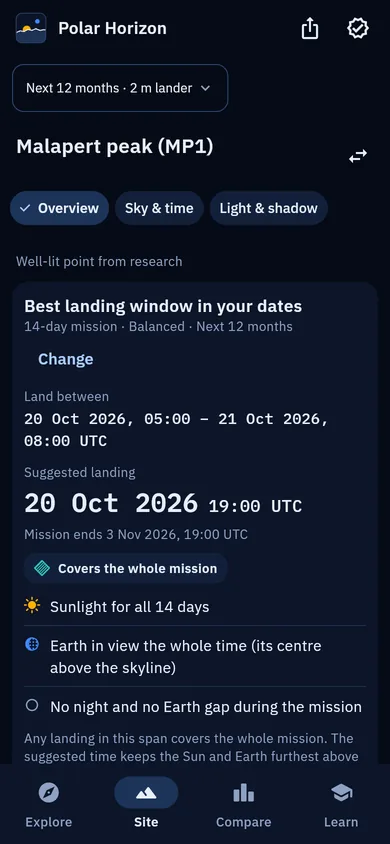
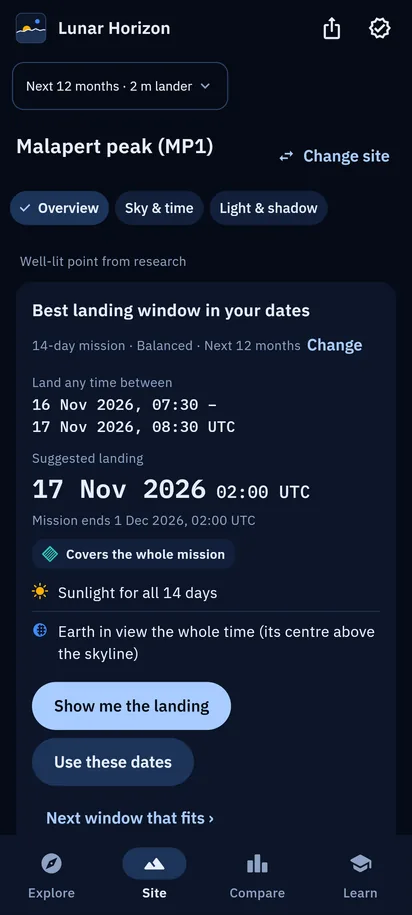
Competition assets: README screenshots from 1.9.1 (with the Lander view), doc fixes from the asset review
- docs/screenshots: the five README screenshots retaken from the 1.9.1 web build (they showed
  the old name and 16 sites), plus lander-desktop.webp and lander-phone.webp; README table row
  and caption; one-pager and demo-script links.
- Review fixes: Explore alt text no longer claims a ranked list in frame; the 16-site figures
  (Blender skyline, shadow-map test) say they predate the three mission sites; demo_30s.md
  label, shot 6 timing and the 29.9 s total.

Claude-Session: https://claude.ai/code/session_015neCYiKdaPfpzjxjrdyDQV

diff --git a/README.md b/README.md
@@ -26,15 +26,19 @@ Scan the code with your phone's camera. It opens <https://localizedprojects.gith
 
 ### Screenshots
 
-Release web build, Next 12 months, 2 m lander, default rules: the MP1 landing window with Sky & time and the phone Sky & time from 13 October 2026 (the classic sky plot and timeline); Explore, Compare and the phone landing card from 12 October 2026.
+Version 1.9.1 web build, 30 October 2026: Next 12 months, 2 m lander, default rules, Balanced goal, time shown 30 October 2026 00:00 UTC.
 
 | Explore | Malapert peak (MP1): best landing window and Sky & time |
 |---|---|
-| ![Explore: the preset sites ranked, with the top pick and the terrain map](docs/screenshots/explore-desktop.webp) | ![Site: the best 14-day landing window for MP1 next to the Sky & time view](docs/screenshots/site-landing-sky-desktop.webp) |
+| ![Explore: the top pick of the 19 ranked preset sites (Malapert peak, MP1: Sun and Earth both up 43% of the time), the sites on the LOLA terrain map, and the selected-site card](docs/screenshots/explore-desktop.webp) | ![Site: the best 14-day landing window for MP1 next to the Sky & time view](docs/screenshots/site-landing-sky-desktop.webp) |
 
 | Compare | Phone: landing window | Phone: Sky & time |
 |---|---|---|
-| ![Compare: winner card with the worked score and the side-by-side chart](docs/screenshots/compare-desktop.webp) | ![Phone: the best landing window card](docs/screenshots/landing-phone.webp) | ![Phone: Sky & time with the sky plot of the terrain skyline and the Sun and Earth paths](docs/screenshots/sky-phone.webp) |
+| ![Compare: the top 3 sites with the winner card, the worked score and the side-by-side chart](docs/screenshots/compare-desktop.webp) | ![Phone: the best 14-day landing window card for MP1](docs/screenshots/landing-phone.webp) | ![Phone: Sky & time with the sky plot of the terrain skyline and the Sun and Earth paths](docs/screenshots/sky-phone.webp) |
+
+| Light & shadow: Lander view (MP1, facing the Sun) | Phone: Lander view |
+|---|---|
+| ![Light & shadow, Lander view at Malapert peak (MP1): the horizon from 2 m up, facing the Sun, with the computed light on the 400 m LOLA terrain](docs/screenshots/lander-desktop.webp) | ![Phone: the Lander view at Malapert peak (MP1), facing the Sun, with its turn, face and zoom buttons](docs/screenshots/lander-phone.webp) |
 
 ---
 
@@ -170,7 +174,7 @@ The two wrong-frame rows show the Horizons check is sensitive: using either wron
 | Check | What was compared | Result |
 |---|---|---|
 | Smooth-sphere dip | The ray-march on a featureless 1737.4 km sphere vs the analytic dip arccos(R / (R + h)) | error 5.39e-6′ (h = 2 m), 3.76e-6′ (10 m), 2.67e-6′ (1000 m), 1.85e-5′ (5000 m) |
-| Blender ray-traced skyline | The skyline rendered by Blender Cycles from a LOLA terrain mesh vs our 2 m horizon masks, at 16 sites × 4096 columns, 0.0878° per pixel | mean of site means 0.0392°, worst p95 0.090°, worst max 0.1749° |
+| Blender ray-traced skyline | The skyline rendered by Blender Cycles from a LOLA terrain mesh vs our 2 m horizon masks, at 16 sites (the catalogue before the three mission sites added in 1.8.0) × 4096 columns, 0.0878° per pixel | mean of site means 0.0392°, worst p95 0.090°, worst max 0.1749° |
 
 **End-to-end illumination vs the LOLA team's maps.** Our long-term percentage of time that any part of the Sun or Earth is above the terrain horizon was compared with the LOLA average-visibility maps `AVGVISIB_75S_120M_201608` (Mazarico et al. 2011 method). Our side uses DE440 with the LOLA 80 m / 240 m horizons, a surface observer, and hourly samples over 18.6 years from 2009-01-01. Terrain within 120 m is excluded.
 

diff --git a/docs/judge_one_pager.md b/docs/judge_one_pager.md
@@ -39,7 +39,7 @@
 
 ![Malapert peak (MP1): the best 14-day landing window next to the Sky & time view](screenshots/site-landing-sky-desktop.webp)
 
-*Web build of 13 October 2026, next 12 months, 2 m lander. More screenshots are in the [README](../README.md#screenshots).*
+*Version 1.9.1 web build of 30 October 2026, next 12 months, 2 m lander. More screenshots are in the [README](../README.md#screenshots).*
 
 **Next steps.** Refine near-field terrain with 20 m LOLA data, check the 2 m Earth numbers at peaks and ridges (Malapert peak's 56% rises to 78% with a 10 m mast).
 
@@ -57,7 +57,7 @@ Sources for every number in this brief (paths relative to the repository root; v
 - 1.73′ for the wrong frame: validation.json frame_sensitivity.MOON_PA.maxArcmin = 1.733.
 - 18.6 years; 14 regions, 1.98 and 1.78 percentage points; 5 ridge/peak points, 7.33 mean and 20.3 max: validation.json avgvis (period, regions.n, regions.meanAbsDiffSunPct, regions.meanAbsDiffEarthPct, ridgePeakPoints.n, ridgePeakPoints.meanAbsDiffSunPct, ridgePeakPoints.maxAbsDiffSunPct).
 - 120 m near-field exclusion: validation.json avgvis.nearFieldExclusionM = 120.0; PLAN.md section 5.
-- Light map: app/test/core/shadow_test.dart, test "shadow map vs ray-marched horizons at 16 sites x 60 moments" (16 x 60 = 960 checks; the "400 m horizons" are computeCoarseHorizon on the same 400 m DEM, the "80 m horizons" are the preset 2 m masks). The test prints all four figures; they are recorded in formula.md section 12.9 (table) and 13.11. They are not in validation.json. The 400 m and 800 m grids: app/lib/state/light_engine.dart (LightRequest, closeUpPx).
+- Light map: app/test/core/shadow_test.dart, test "shadow map vs ray-marched horizons at 16 sites x 60 moments" (16 x 60 = 960 checks, at the 16 sites of the catalogue before the three mission sites added in 1.8.0; the "400 m horizons" are computeCoarseHorizon on the same 400 m DEM, the "80 m horizons" are the preset 2 m masks). The test prints all four figures; they are recorded in formula.md section 12.9 (table) and 13.11. They are not in validation.json. The 400 m and 800 m grids: app/lib/state/light_engine.dart (LightRequest, closeUpPx).
 - 10- to 60-minute steps: formula.md section 9.1 (automatic step: 600 s up to 60 days, 1800 s up to 366 days, 3600 s beyond; timeseries.dart).
 - Score display: formulaText (app/lib/core/score.dart) is shown in app/lib/widgets/compare_panel.dart (Fine-tune). Goal presets (Goal, weightsFor) and scoreWhy are in app/lib/core/ranking.dart and tested in app/test/core/ranking_test.dart. The goal chips (app/lib/widgets/goal_chips.dart, calling AppState.setGoal) are on Explore and Compare; scoreWhy is shown in app/lib/widgets/winner_card.dart (Compare) and app/lib/screens/learn.dart (How the score works). Calendar: app/lib/widgets/good_days_calendar.dart; good days by month: app/lib/widgets/calendar_race.dart; longest night: app/lib/widgets/plan_for_dark_card.dart.
 - Numbers shown in the app: app/lib/screens/validation_page.dart (reads validation.json; its Limitations list gives the light map as "82–94%").

diff --git a/docs/demo_30s.md b/docs/demo_30s.md
@@ -28,11 +28,11 @@ captions**, and runs 30 s or less. Record it from the web build
 | 1 | 0:00–0:04 (4 s) | Which lunar south-pole site, and when, gives sunlight and Earth contact? | First launch, the goal question "What matters most for your mission?". At about 0:03 tap **Balanced**. |
 | 2 | 0:04–0:09 (5 s) | 19 sites ranked by Sun and Earth above the real skyline. | **Explore** once the ranking has finished: the map with the ranked sites and the top-pick card ("Sun and Earth both up N% of the time" and its longest stretch with both). Default dates (next 12 months), goal Balanced. |
 | 3 | 0:09–0:15 (6 s) | Best landing window: Sun and Earth up for the whole mission. | Tap **See this site** on the top-pick card (Site › **Overview** of the top pick), then **Find the best landing window** (14-day mission). Hold on the result: the landing span, the suggested landing time and the Sun and Earth lines. |
-| 4 | 0:15–0:21 (6 s) | Computed light and shadow over NASA LOLA terrain at landing. | Tap **Show me the landing** (Sky & time opens at the suggested landing; cut this), then the **Light & shadow** tab. The time stays at the suggested landing. View **Around site**, layer **Both**. Hold still; do not scrub. |
+| 4 | 0:15–0:21 (6 s) | Computed light and shadow over NASA LOLA terrain at landing. | Tap **Show me the landing** (Sky & time opens at the suggested landing; cut this), then the **Light & shadow** tab. The time stays at the suggested landing. View **Around site** (labelled **Site** in narrower windows, as in the 1280 px recording), layer **Both**. Hold still; do not scrub. |
 | 5 | 0:21–0:26 (5 s) | The lander's view facing the Sun (approximate, 400 m terrain). | Same site and time. Switch the view to **Lander**, then tap **Face the Sun**. Keep the approximation badge in frame. |
-| 6 | 0:26–0:30 (4 s) | Checked against NASA JPL Horizons: worst error 0.0016 arcminutes. | **Learn** › **Can I trust these numbers?**, which opens *Validation & assumptions*. Frame the "In short" rows: directions vs NASA JPL Horizons (worst case) and long-term sunlit time vs the NASA LOLA team's maps. |
+| 6 | 0:26–0:29.9 (3.9 s) | Checked against NASA JPL Horizons: worst error 0.0016 arcminutes. | **Learn** › **Can I trust these numbers?**, which opens *Validation & assumptions*. Frame the "In short" rows: directions vs NASA JPL Horizons (worst case) and long-term sunlit time vs the NASA LOLA team's maps. |
 
-Total: 30 s. Captions are 9 to 11 words each.
+Total: 29.9 s (30 s or less). Captions are 9 to 11 words each.
 
 ## Notes for the edit
 

diff --git a/docs/demo_script.md b/docs/demo_script.md
@@ -7,10 +7,11 @@ aloud: the app recomputes them for "the next 12 months" from today's date.
 default settings (next 12 months, 2 m lander). Close other tabs. Have the "Can I trust
 these numbers?" page one tap away. Total: about 3:00.
 
-**What it should look like** (web builds of 13 October 2026 for the landing window with Sky & time and the phone Sky & time, and of 12 October 2026 for the rest; the dates will differ
+**What it should look like** (version 1.9.1 web build of 30 October 2026; the dates will differ
 on the day): the [landing window and Sky & time](screenshots/site-landing-sky-desktop.webp)
 for Malapert peak (MP1), the [phone landing card](screenshots/landing-phone.webp) and
-[Sky & time on a phone](screenshots/sky-phone.webp), and [Compare](screenshots/compare-desktop.webp).
+[Sky & time on a phone](screenshots/sky-phone.webp), the [Lander view](screenshots/lander-desktop.webp)
+([on a phone](screenshots/lander-phone.webp)), and [Compare](screenshots/compare-desktop.webp).
 
 ---
 
